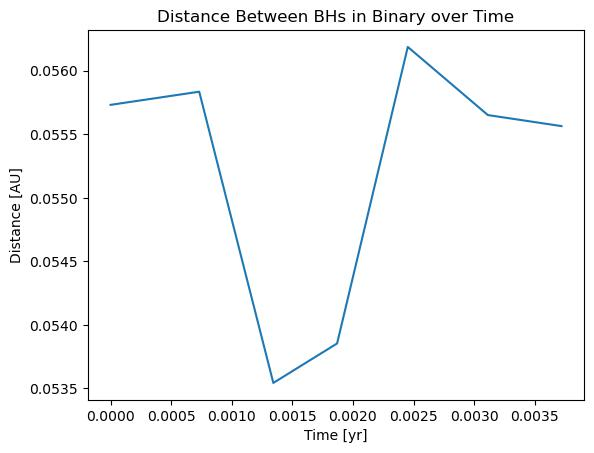
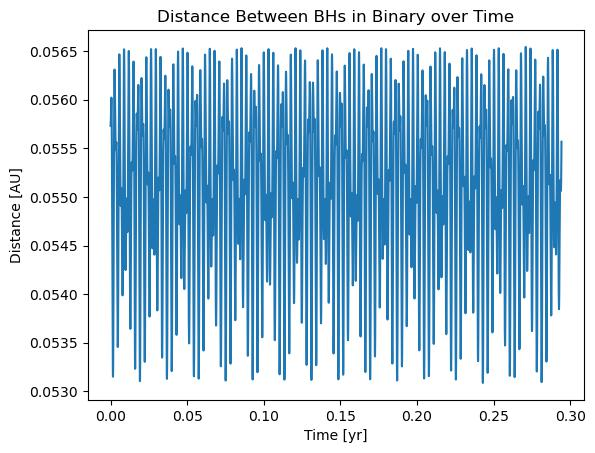
Added ability to make plots for only specified time intervals

diff --git a/PostProc.py b/PostProc.py
@@ -1,9 +1,12 @@
 import matplotlib.pyplot as plt
+from matplotlib.animation import FuncAnimation
 import pandas as pd
 import numpy as np
 from numpy.linalg import norm as mag
 import os
-from matplotlib.animation import FuncAnimation
+
+
+data_objects = ["BBH_1", "BBH_2", "SMBH", "perturber", "binary", "other"]
 
 
 def read_data(object):
@@ -31,37 +34,57 @@ def extract_coordinate(positions, coordinate):
     coordinates = [position[coordinate] for position in positions]
     return np.array(coordinates)
 
+
 def split_coordinates(data, mode = "x,y"):
     if mode == "x,y":
         return extract_coordinate(get_xyz(data), "x"), extract_coordinate(get_xyz(data), "y")
 
 
-BBH_1_data = read_data("BBH_1")
-BBH_2_data = read_data("BBH_2")
-SMBH_data = read_data("SMBH")
-perturber_data = read_data("perturber")
-binary_data = read_data("binary")
-other_data = read_data("other")
+def get_last_time(df):
+    return df["time"].iloc[-1]
 
-SMBH_x, SMBH_y = split_coordinates(SMBH_data)
-BBH_1_x, BBH_1_y = split_coordinates(BBH_1_data)
-BBH_2_x, BBH_2_y = split_coordinates(BBH_2_data)
-perturber_x, perturber_y = split_coordinates(perturber_data)
-BBH_1_barycentric_x, BBH_1_barycentric_y = extract_coordinate(get_relative_xyz(BBH_1_data, binary_data), "x"), extract_coordinate(get_relative_xyz(BBH_1_data, binary_data), "y")
-BBH_2_barycentric_x, BBH_2_barycentric_y = extract_coordinate(get_relative_xyz(BBH_2_data, binary_data), "x"), extract_coordinate(get_relative_xyz(BBH_2_data, binary_data), "y")
+
+def generate_data():
+    d = {}
+    for name in data_objects:
+        d[name] = read_data(name)
+    return d
+
+
+data_dict = generate_data()
+
+def get_approp_t_end():
+    end_times = []
+    for df in data_dict.values():
+        end_times.append(get_last_time(df))
+    return min(end_times)
+
+
+def time_extract_data(t_start = 0, t_end = get_approp_t_end()):
+    for name, df in data_dict.items():
+        data_dict[name] = df[(df["time"] >= t_start) & (df["time"] <= t_end)].reset_index(drop = True)
+
+time_extract_data()
+
+SMBH_x, SMBH_y = split_coordinates(data_dict["SMBH"])
+BBH_1_x, BBH_1_y = split_coordinates(data_dict["BBH_1"])
+BBH_2_x, BBH_2_y = split_coordinates(data_dict["BBH_2"])
+perturber_x, perturber_y = split_coordinates(data_dict["perturber"])
+BBH_1_barycentric_x, BBH_1_barycentric_y = extract_coordinate(get_relative_xyz(data_dict["BBH_1"], data_dict["binary"]), "x"), extract_coordinate(get_relative_xyz(data_dict["BBH_1"], data_dict["binary"]), "y")
+BBH_2_barycentric_x, BBH_2_barycentric_y = extract_coordinate(get_relative_xyz(data_dict["BBH_2"], data_dict["binary"]), "x"), extract_coordinate(get_relative_xyz(data_dict["BBH_2"], data_dict["binary"]), "y")
 
 
 def distance(p1, p2):
     p1, p2 = get_xyz(p1), get_xyz(p2)
     distances = []
-    for i, pos in enumerate(p1):
-        dist = mag(p1[i] - p2[i])
-        distances.append(dist)
+    for i, _ in enumerate(p1):
+        distances.append(mag(p1[i] - p2[i]))
     return np.array(distances)
+
 
 def construct_plots():
 
-    plt.plot(other_data["time"], other_data["Time-Step"])
+    plt.plot(data_dict["other"]["time"], data_dict["other"]["Time-Step"])
     plt.xlabel("Time [yr]")
     plt.ylabel("dt [yr]")
     plt.title("Time-step over Time")
@@ -69,22 +92,22 @@ def construct_plots():
     plt.savefig("plots/time_vs_dt.jpg", bbox_inches = "tight")
     plt.close()
 
-    plt.plot(BBH_1_data["time"], distance(BBH_1_data, BBH_2_data))
+    plt.plot(data_dict["BBH_1"]["time"], distance(data_dict["BBH_1"],data_dict["BBH_2"]))
     plt.xlabel("Time [yr]")
     plt.ylabel("Distance [AU]")
     plt.title("Distance Between BHs in Binary over Time")
     plt.savefig("plots/time_vs_binary_distance.jpg", bbox_inches = "tight")
     plt.close()
 
-    plt.plot(binary_data["time"], binary_data["Eccentricity"])
+    plt.plot(data_dict["binary"]["time"], data_dict["binary"]["Eccentricity"])
     plt.xlabel("Time [yr]")
     plt.ylabel("Eccentricity")
     plt.title("Eccentricity of the Binary in the Barycentric Frame over Time")
     plt.savefig("plots/time_vs_eccentricity.jpg", bbox_inches = "tight")
     plt.close()
 
-    plt.scatter(extract_coordinate(get_relative_xyz(BBH_1_data, binary_data), "x"), extract_coordinate(get_relative_xyz(BBH_1_data, binary_data), "y"), label = "m1_a")
-    plt.scatter(extract_coordinate(get_relative_xyz(BBH_2_data, binary_data), "x"), extract_coordinate(get_relative_xyz(BBH_2_data, binary_data), "y"), label = "m1_b")
+    plt.scatter(extract_coordinate(get_relative_xyz(data_dict["BBH_1"], data_dict["binary"]), "x"), extract_coordinate(get_relative_xyz(data_dict["BBH_1"], data_dict["binary"]), "y"), label = "m1_a")
+    plt.scatter(extract_coordinate(get_relative_xyz(data_dict["BBH_2"], data_dict["binary"]), "x"), extract_coordinate(get_relative_xyz(data_dict["BBH_2"], data_dict["binary"]), "y"), label = "m1_b")
     plt.title("Trajectory of Binary BBHs in Barycentric Frame")
     plt.xlabel("x [AU]")
     plt.ylabel("y [AU]")
@@ -92,17 +115,17 @@ def construct_plots():
     plt.savefig("plots/BinaryTrajectory.jpg", bbox_inches = "tight")
     plt.close()
 
-    plt.plot(SMBH_data["time"], distance(SMBH_data, binary_data))
+    plt.plot(data_dict["SMBH"]["time"], distance(data_dict["SMBH"], data_dict["binary"]))
     plt.xlabel("Time [yr]")
     plt.ylabel("Distance [AU]")
     plt.title("Distance from SMBH to $m_1$ over Time")
     plt.savefig("plots/BinaryDisttoSMBH.jpg", bbox_inches = "tight")
     plt.close()
 
-    plt.scatter(extract_coordinate(get_xyz(BBH_1_data), "x"), extract_coordinate(get_xyz(BBH_1_data), "y"), label = "m1_a")
-    plt.scatter(extract_coordinate(get_xyz(BBH_2_data), "x"), extract_coordinate(get_xyz(BBH_2_data), "y"), label = "m1_b")
-    plt.scatter(extract_coordinate(get_xyz(perturber_data), "x"), extract_coordinate(get_xyz(perturber_data), "y"), label = "perturber")
-    plt.scatter(extract_coordinate(get_xyz(SMBH_data), "x"), extract_coordinate(get_xyz(SMBH_data), "y"), label = "SMBH")
+    plt.scatter(extract_coordinate(get_xyz(data_dict["BBH_1"]), "x"), extract_coordinate(get_xyz(data_dict["BBH_1"]), "y"), label = "m1_a")
+    plt.scatter(extract_coordinate(get_xyz(data_dict["BBH_2"]), "x"), extract_coordinate(get_xyz(data_dict["BBH_2"]), "y"), label = "m1_b")
+    plt.scatter(extract_coordinate(get_xyz(data_dict["perturber"]), "x"), extract_coordinate(get_xyz(data_dict["perturber"]), "y"), label = "perturber")
+    plt.scatter(extract_coordinate(get_xyz(data_dict["SMBH"]), "x"), extract_coordinate(get_xyz(data_dict["SMBH"]), "y"), label = "SMBH")
     plt.title("System Trajectory")
     plt.xlabel("x [AU]")
     plt.ylabel("y [AU]")
@@ -110,7 +133,7 @@ def construct_plots():
     plt.savefig("plots/SystemTrajectory.jpg", bbox_inches = "tight")
     plt.close()
 
-    plt.plot(other_data["time"], other_data["Perturber-Binary Separation"])
+    plt.plot(data_dict["other"]["time"],data_dict["other"]["Perturber-Binary Separation"])
     plt.title("Separation Between Orbits of Perturber and Binary \n $\\tau = 10^5 T_{m_2}$")
     plt.xlabel("Time [yr]")
     plt.ylabel("Separation [AU]")
@@ -120,12 +143,13 @@ def construct_plots():
     plt.savefig("plots/DistPerturbBinary.jpg", bbox_inches = "tight")
     plt.close()
 
-    plt.plot(other_data["time"], other_data["a_perturber"])
+    plt.plot(data_dict["other"]["time"], data_dict["other"]["a_perturber"])
     plt.title("Semi-major Axis of Perturber")
     plt.xlabel("Time [yr]")
     plt.ylabel("a [AU]")
     plt.savefig("plots/PerturberSemiMajor.jpg", bbox_inches = "tight")
     plt.close()
+
 
 def animate_system_trajectory(i, ax, SMBH_scatter, perturber_scatter, BBH_1_scatter, BBH_2_scatter, trail_args):
     SMBH_scatter.set_offsets([SMBH_x[i], SMBH_y[i]])
@@ -139,7 +163,7 @@ def animate_system_trajectory(i, ax, SMBH_scatter, perturber_scatter, BBH_1_scat
             points = i
         trail.set_offsets(np.array([np.array(i) for i in zip(perturber_x[i-points:i], perturber_y[i-points:i])]))
 
-    ax.set_title(f"Animated System Trajectory \n t = {np.round(BBH_1_data['time'][i], 3)} yr")
+    ax.set_title(f"Animated System Trajectory \n t = {np.round(data_dict['BBH_1']['time'][i], 3)} yr")
 
 
 def animate_binary_trajectory(i, ax, BBH_1_scatter, BBH_2_scatter, trail_args):
@@ -151,10 +175,11 @@ def animate_binary_trajectory(i, ax, BBH_1_scatter, BBH_2_scatter, trail_args):
     if i > 0:
         if trail_points >= i:
             trail_points = i
-        BBH_1_trail.set_offsets(np.array([np.array(i) for i in zip(BBH_1_barycentric_x[i-trail_points:i],  BBH_1_barycentric_y[i-trail_points:i])]))
+        BBH_1_trail.set_offsets(np.array([np.array(i) for i in zip(BBH_1_barycentric_x[i - trail_points:i], BBH_1_barycentric_y[i - trail_points:i])]))
         BBH_2_trail.set_offsets(np.array([np.array(i) for i in zip(BBH_2_barycentric_x[i - trail_points:i], BBH_2_barycentric_y[i - trail_points:i])]))
 
-    ax.set_title(f"Animated Binary Trajectory \n t = {np.round(BBH_1_data['time'][i], 3)} yr")
+    ax.set_title(f"Animated Binary Trajectory \n t = {np.round(data_dict['BBH_1']['time'][i], 3)} yr")
+
 
 def generate_binary_trajectory_animation():
 
@@ -175,7 +200,7 @@ def generate_binary_trajectory_animation():
     plt.title("Animated Binary Trajectory")
     plt.legend(loc = "upper right")
 
-    animation = FuncAnimation(fig, animate_binary_trajectory, interval = 100, fargs = (ax, BBH_1_scatter, BBH_2_scatter, (BBH_1_trail, BBH_2_trail, trail_points)))
+    animation = FuncAnimation(fig, animate_binary_trajectory, frames = len(BBH_1_barycentric_x), interval = 100, fargs = (ax, BBH_1_scatter, BBH_2_scatter, (BBH_1_trail, BBH_2_trail, trail_points)))
 
     animation.save("plots/BinaryTrajectory.mp4")
 
@@ -200,7 +225,7 @@ def generate_system_trajectory_animation():
     plt.title("Animated System Trajectory")
     plt.legend(loc = "upper right")
 
-    animation = FuncAnimation(fig, animate_system_trajectory, interval = 30, fargs = (ax, SMBH_scatter, perturber_scatter, BBH_1_scatter, BBH_2_scatter, (perturber_trail, trail_points)))
+    animation = FuncAnimation(fig, animate_system_trajectory, frames = len(SMBH_x), interval = 100, fargs = (ax, SMBH_scatter, perturber_scatter, BBH_1_scatter, BBH_2_scatter, (perturber_trail, trail_points)))
 
     animation.save("plots/SystemTrajectory.mp4")
 
